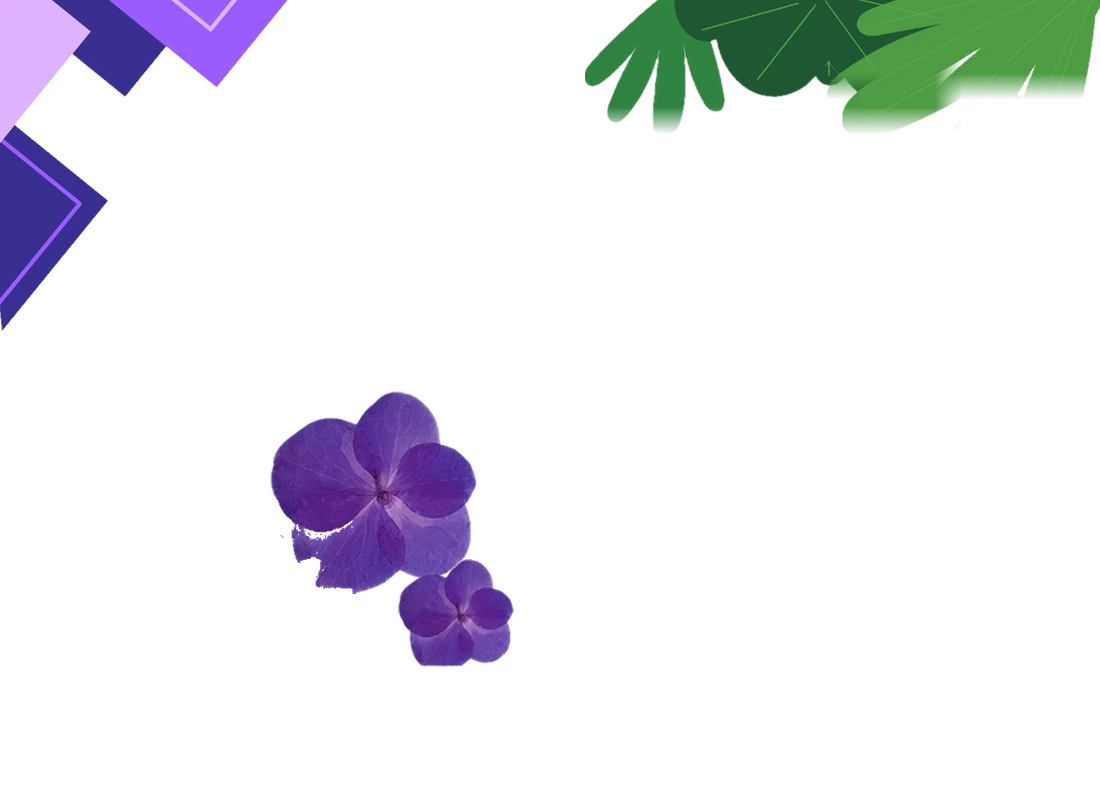
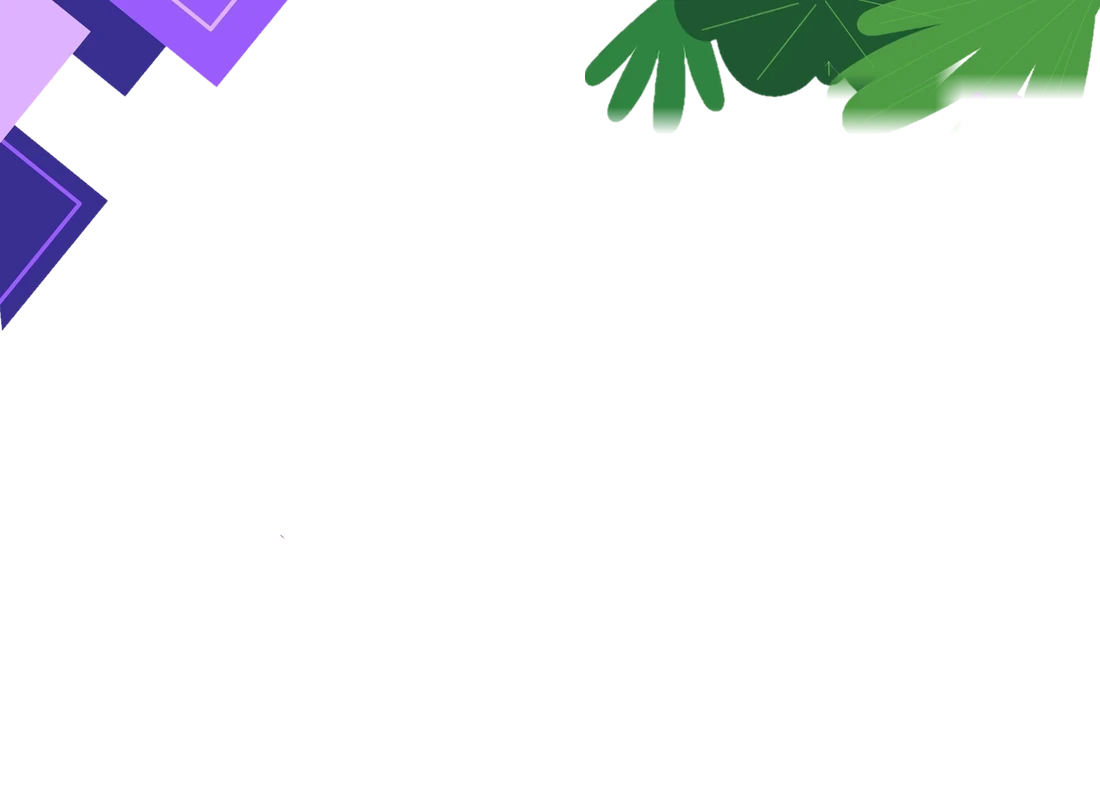
v131

Changed region(s): [[0.2473, 0.4688, 0.4636, 0.8438]]

diff --git a/anuario.js b/anuario.js
@@ -500,7 +500,7 @@ function anuTema_(anio){
 /* ---------- Portada por CAPAS (tema.json → "capas"): cada elemento es una imagen suelta con su animación ---------- */
 function anuEscena_(){
   if($a("anuScene")) return; const sc=document.createElement("div"); sc.id="anuScene"; sc.setAttribute("aria-hidden","true");
-  sc.innerHTML='<div class="sc-in"><div class="sc-g sc-gl"><img class="sc-p sc-it" alt=""><img class="sc-p sc-ib" alt=""></div><div class="sc-g sc-gr"><img class="sc-p sc-dt" alt=""><img class="sc-p sc-db" alt=""></div><img class="sc-v sc-pt" alt=""><img class="sc-v sc-pb" alt=""></div>';
+  sc.innerHTML='<div class="sc-in"><div class="sc-g sc-gl"><img class="sc-p sc-it" alt=""><img class="sc-p sc-ib" alt=""></div><div class="sc-g sc-gr"><img class="sc-p sc-dt" alt=""><img class="sc-p sc-db" alt=""></div><img class="sc-v sc-pt" alt=""><img class="sc-v sc-pb" alt=""></div><img class="sc-f sc-fm" alt=""><img class="sc-f sc-fp" alt=""><img class="sc-f sc-fg" alt="">';
   document.body.appendChild(sc);
   const sm=document.createElement("div"); sm.id="anuSceneM"; sm.setAttribute("aria-hidden","true");
   sm.innerHTML='<div class="sm-dots"></div><div class="sm-in"><img class="sm-p sm-morado" alt=""><img class="sm-p sm-azul" alt=""><img class="sm-p sm-verde" alt=""></div>';
@@ -523,7 +523,7 @@ function anuCapas_(t,w){
   const B=t._b+(c.carpeta||"capas/"), M=c.piezas||{}, E=c.esquinas||{};
   if(!box.dataset.k||box.dataset.k!==B){ box.dataset.k=B;
     box.innerHTML=(c.orden||[]).map((n,i)=>{ const m=M[n]; if(!m) return ""; return `<img class="l25 l-${n}" src="${B}${n}.webp" alt="" draggable="false" style="--l:${m.l}%;--t:${m.t}%;--w:${m.w}%;--d:${(i*0.11).toFixed(2)}s">`; }).join(""); }
-  if(sc){ ["it","dt","ib","db","pt","pb"].forEach(k=>{ const im=sc.querySelector(".sc-"+k), e=E[k]; if(im&&e&&im.dataset.s!==B+k){ im.dataset.s=B+k; im.src=B+k+".webp"; im.style.setProperty("--pw",e.w); } });
+  if(sc){ ["it","dt","ib","db","pt","pb","fg","fp","fm"].forEach(k=>{ const im=sc.querySelector(".sc-"+k), e=E[k]; if(im&&e&&im.dataset.s!==B+k){ im.dataset.s=B+k; im.src=B+k+".webp"; im.style.setProperty("--pw",e.w); } });
     sc.style.setProperty("--paper",c.papel||"#f0dcda"); sc.classList.add("on"); }
 }
 const anuPre_=u=>new Promise(r=>{ const i=new Image(); i.onload=()=>r(true); i.onerror=()=>r(false); i.src=u; });

diff --git a/anuario.css b/anuario.css
@@ -511,3 +511,14 @@ body{transition:background-color .6s ease;}
   .sc-v{display:block;} .sc-g{display:none;}
   .sc-pt{width:calc(100% + 2px);left:-1px;} .sc-pb{width:calc(100% + 2px);left:-1px;bottom:-1px;}
 }
+
+/* ENTREGA 6 · Portada 2025: flores sueltas (solo vertical) y hojitas sobre la A */
+.sc-f{display:none;position:absolute;height:auto;max-width:none;width:calc(var(--pw,10) * 1%);user-select:none;-webkit-user-drag:none;}
+.sc-fm{left:17.5%;top:26.5%;transform-origin:50% 50%;animation:scFlor 11s ease-in-out infinite;}
+.sc-fp{left:8.2%;top:30.5%;animation:scFlor 9s ease-in-out -2s infinite;}
+.sc-fg{left:62.3%;top:33.1%;animation:scFlor 12s ease-in-out -5s infinite;}
+@keyframes scFlor{0%,100%{transform:rotate(-2deg)}50%{transform:rotate(2deg)}}
+@media (orientation:portrait){.sc-f{display:block;}}
+.l-hojitas{transform-origin:73% 92%;animation:l25Pop .75s cubic-bezier(.3,1.5,.5,1) var(--d) backwards,l25Leaf 5s ease-in-out 1s infinite;filter:none;}
+@keyframes l25Leaf{0%,100%{transform:rotate(-2deg)}50%{transform:rotate(3deg)}}
+@media (prefers-reduced-motion:reduce){.sc-f,.l-hojitas{animation:none !important;}}

diff --git a/sw.js b/sw.js
@@ -4,7 +4,7 @@
  * - Las llamadas al servidor (Apps Script, Google login, GitHub API) NUNCA pasan por acá: los datos
  *   se guardan desde index.html (localStorage + IndexedDB), no desde el service worker.
  * Para forzar que todos reciban una versión nueva, sube el número de VERSION. */
-const VERSION = "v2.122"; // súbelo en CADA despliegue: es lo que dispara la ventana de «Actualizar ahora»
+const VERSION = "v2.123"; // súbelo en CADA despliegue: es lo que dispara la ventana de «Actualizar ahora»
 const SHELL_CACHE = "tph-shell-" + VERSION;
 const ASSET_CACHE = "tph-assets-v1";      // no se borra al cambiar VERSION (fotos/librerías)
 const MAX_ASSETS = 400;
